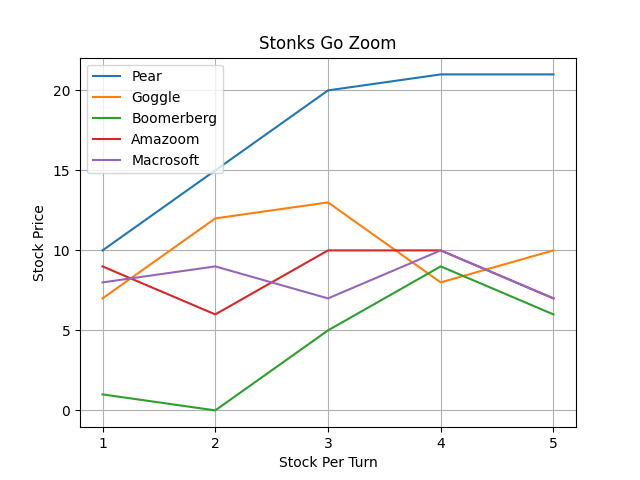
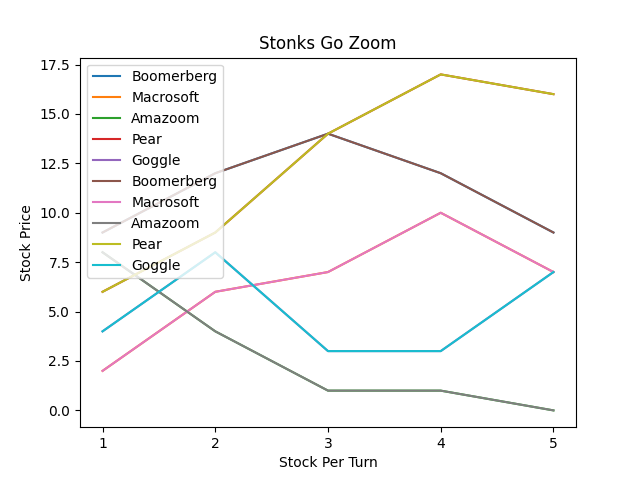
graph

diff --git a/Graphics Team/cardstock/src/server_testing/test_client_2.js b/Graphics Team/cardstock/src/server_testing/test_client_2.js
@@ -7,6 +7,10 @@ let marketCardsCopy = [];
 let playerIdCopy = null;
 
 
+socket.on('connect', function(){
+   socket.emit("Get Stock Graph");
+});
+
 socket.on('Market Cards', function(market_cards){
    console.log("market cards")
    console.log(market_cards)
@@ -38,31 +42,35 @@ socket.on('error', function(error){
    console.log("error: " + error.message);
 });
 
+socket.on('Stock Graph', function(image){
+   console.log(image.image.toString("ascii"));
+});
 
-socket.emit("Get Market");
-socket.emit("Get Players");
-socket.emit("Get Player Index");
-socket.emit("Get Stock Market");
-socket.emit("Create Player", { "id": 1, "name":"Real Justin"});
+// socket.emit("Get Market");
+// socket.emit("Get Players");
+// socket.emit("Get Player Index");
+// socket.emit("Get Stock Market");
+// socket.emit("Create Player", { "id": 1, "name":"Real Justin"});
 
 
-setTimeout(function() {
-   console.log(playerListCopy[0]);
-   socket.emit("Buy Card", { "player": playerListCopy[0], "target":0});
-}, 1000);
-
-console.log(JSON.stringify(playerListCopy[0]));
 
 // setTimeout(function() {
 //    console.log(playerListCopy[0]);
 //    socket.emit("Buy Card", { "player": playerListCopy[0], "target":0});
 // }, 1000);
-
-console.log(JSON.stringify(playerListCopy[0]));
-
-setTimeout(function() {
-   console.log(playerListCopy[0]);
-   socket.emit("Sell Card", { "player": playerListCopy[0], "target":0});
-}, 1000);
-
-console.log(JSON.stringify(playerListCopy[0]));
+//
+// console.log(JSON.stringify(playerListCopy[0]));
+//
+// // setTimeout(function() {
+// //    console.log(playerListCopy[0]);
+// //    socket.emit("Buy Card", { "player": playerListCopy[0], "target":0});
+// // }, 1000);
+//
+// console.log(JSON.stringify(playerListCopy[0]));
+//
+// setTimeout(function() {
+//    console.log(playerListCopy[0]);
+//    socket.emit("Sell Card", { "player": playerListCopy[0], "target":0});
+// }, 1000);
+//
+// console.log(JSON.stringify(playerListCopy[0]));

diff --git a/Graphics Team/GUI/test server/gui_game_server.py b/Graphics Team/GUI/test server/gui_game_server.py
@@ -5,6 +5,9 @@ from flask import Flask, render_template
 from flask_socketio import SocketIO, send, emit
 import matplotlib
 import matplotlib.pyplot as plt
+import base64
+
+matplotlib.use('Agg')
 
 HOST_IP = "localhost"
 HOST_PORT = "4000"
@@ -14,7 +17,6 @@ ACTION_FILE = "action_cards.txt"
 
 app = Flask(__name__)
 sio = SocketIO(app, cors_allowed_origins="*")
-
 # list of all cards
 market_deck = []
 
@@ -420,19 +422,20 @@ def send_game_data():
     send_player_index()
     emit("Game State", {"state": playing_game}, broadcast=True)
 
-#@sio.on("Get Stock Graph")
+@sio.on("Get Stock Graph")
 def create_stock_graph():
     for name in stocks_over_time:
         stock = plt.plot(xaxis, stocks_over_time[name], label=name)
-    plt.legend()
+    plt.legend(loc='upper left')
     plt.xticks(xaxis)
     plt.xlabel("Stock Per Turn")
     plt.ylabel("Stock Price")
     plt.title("Stonks Go Zoom")
     plt.grid()
     plt.savefig('figure.png')
-    plt.show()
-    #emit("Stock Graph", plt)
+    #plt.show()
+    image = open('figure.png', 'rb').read()
+    emit("Stock Graph", {'image': image})
 
 def init_game():
     global playing_game, player_index
@@ -459,8 +462,8 @@ def test():
     next_turn()
     next_turn()
     next_turn()
+    sio.run(app, host=HOST_IP, port=HOST_PORT)
     create_stock_graph()
-    #sio.run(app, host=HOST_IP, port=HOST_PORT)
 
 def main():
     create_deck()
